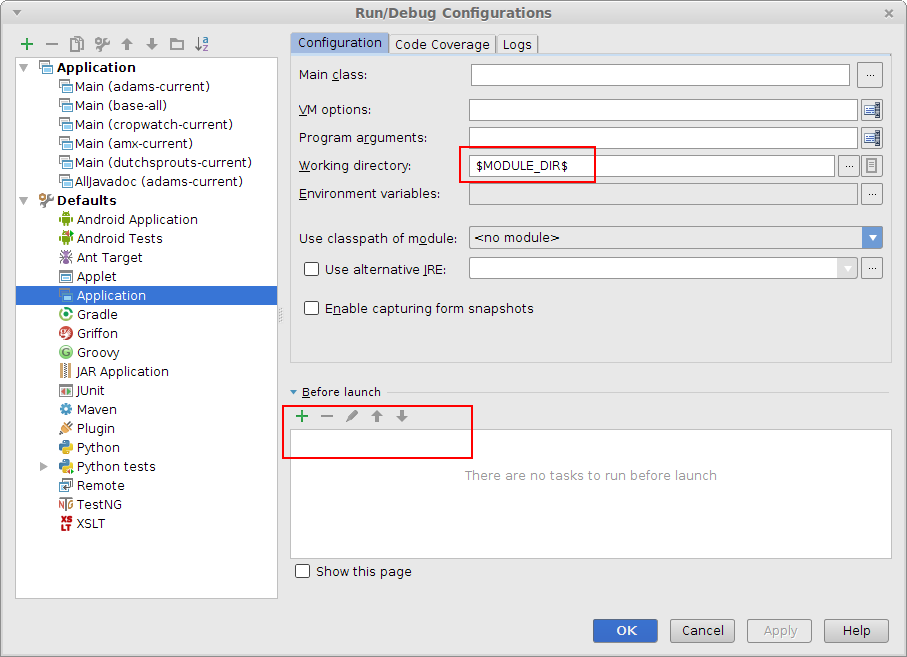
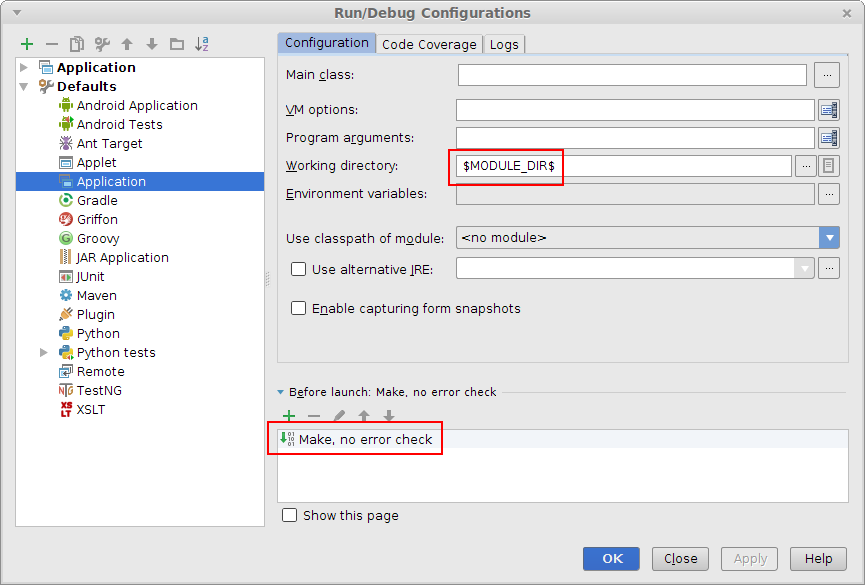
removed GenerateSerialVersionUID plugin reference; updated app defaults (Make, no error check)

diff --git a/dev_start.html b/dev_start.html
@@ -187,7 +187,6 @@
                         <ul>
                           <li>Subversion Integration</li>
                           <li>Maven Integration</li>
-                          <li>GenerateSerialVersionUID (not bundled)</li>
                         </ul>
                       </p>
                       <p>
@@ -240,7 +239,7 @@
                   </div>
                   <div id="collapse-intellij-4" class="panel-collapse collapse">
                     <div class="panel-body">
-                      <p>When creating launchers (<em>Configurations</em>) for applications, you don't necessarily want a build to slow you down, especially if you have <em>auto make</em> enabled. Hence remove the <em>Build</em> from the list of actions before launch. Furthermore, you will most likely have the module's top level directory as the default working directory when starting up the application. You can set this using the <code>$MODULE_DIR$</code> variable.</p>
+                      <p>Despite having <em>auto make</em> enabled, it pays off to have a build action before launching applications. Hence change the <em>Before launch</em> action to use <em>Make, no error check</em>. Furthermore, you will most likely have the module's top level directory as the default working directory when starting up the application. You can set this using the <code>$MODULE_DIR$</code> variable.</p>
                       <p/>
                         <img src="img/tools/intellij-app_defaults.png"/>
                       </p>
